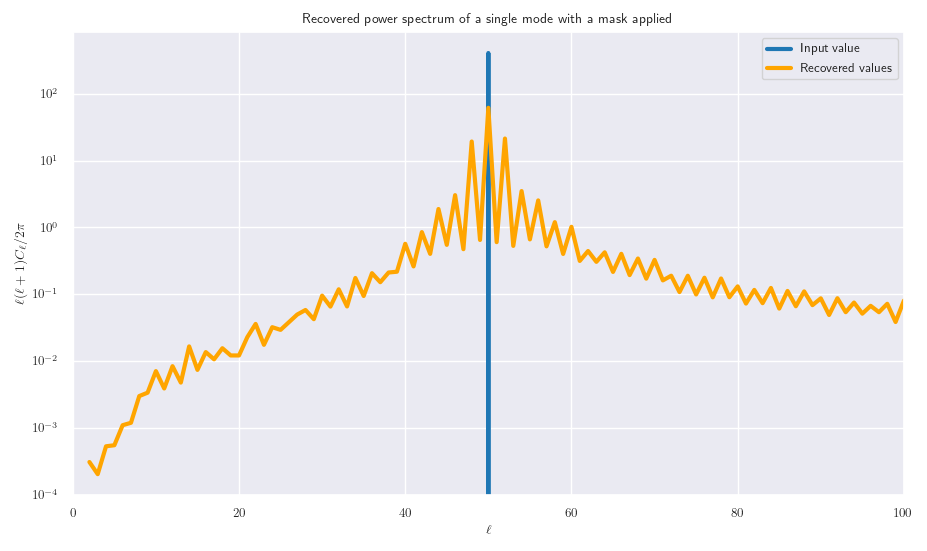
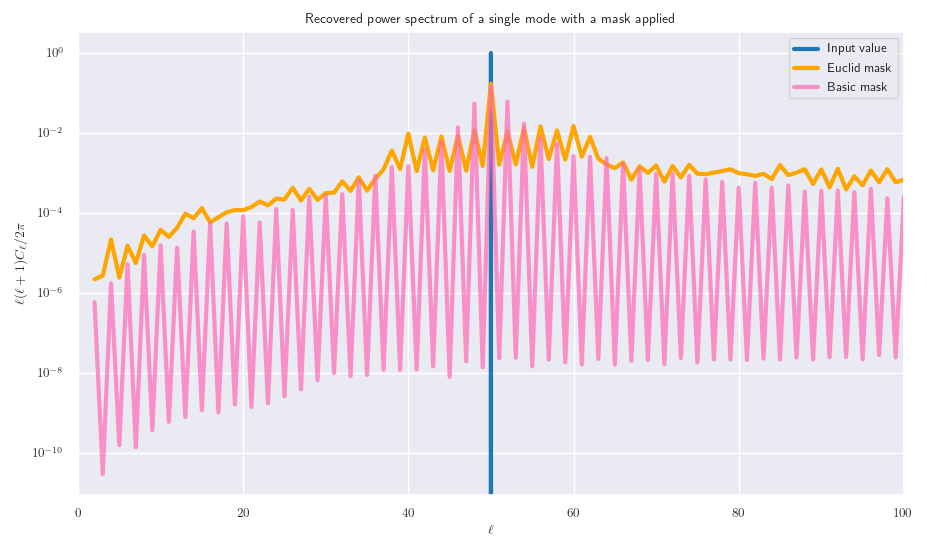
Update single-ell mode power spectrum plot & discussion

diff --git a/docs/InvestigatingMasks.md b/docs/InvestigatingMasks.md
@@ -477,18 +477,21 @@ is shown below:
 Here, we see that the mask only has power for even _l_, and is zero for odd _l_. Hence, when we convolve
 our original signal at an _l_ value, we expect to pick up major contributions from this at multipoles of _l_ ± 2,
 and other even multiples of two. This can be shown by starting out with power only at one _l_ mode, applying
-a mask, and recovering the power spectrum, which gives
+a mask, and recovering the power spectrum. We do this for the Euclid-mask, and our simple mask (made out of 
+our two cuts and so exhibits the perfect odd-mode symmetry, and has a similar _f_<sub>sky</sub> value to 
+the Euclid mask), which gives
 
 ![Covariance animation](figures/investigating_masks/SingleLMode.png)
 
-Here, we can see that power is significantly increased for even multiples of 2 from our original _l_ value.
-This then makes sense why there are such strong correlations between these _l_ modes, as shown in the covariance
-matrix.
+Here, we can see that the perfect symmetry of the basic mask causes the odd-mode power to be vastly
+suppressed compared to the Euclid mask. Both masks feature strong increases for even multiples of 2 from 
+our original _l_ value, which again makes sense because both masks have strong(er) support at even _l_
+over odd _l_ values.
 
 ### Evaluating the coupling matrix
 
 In the above animation of the covariance matrix, we show how a certain _l_ mode is coupled
-to integer multiples of ± 2 _l_. We can quantify these correlations by evalutating the symmetric
+to integer multiples of ± 2 _l_. We can quantify these correlations by evaluating the symmetric
 mode-coupling matrix _G_, which is given as Equation 11 of
 [`astro-ph/0307515`](https://arxiv.org/pdf/astro-ph/0307515.pdf). To evaluate this, we used
 CAMB's `pcl_coupling_matrix` function, which is a fast implementation of this equation. We then normalise
